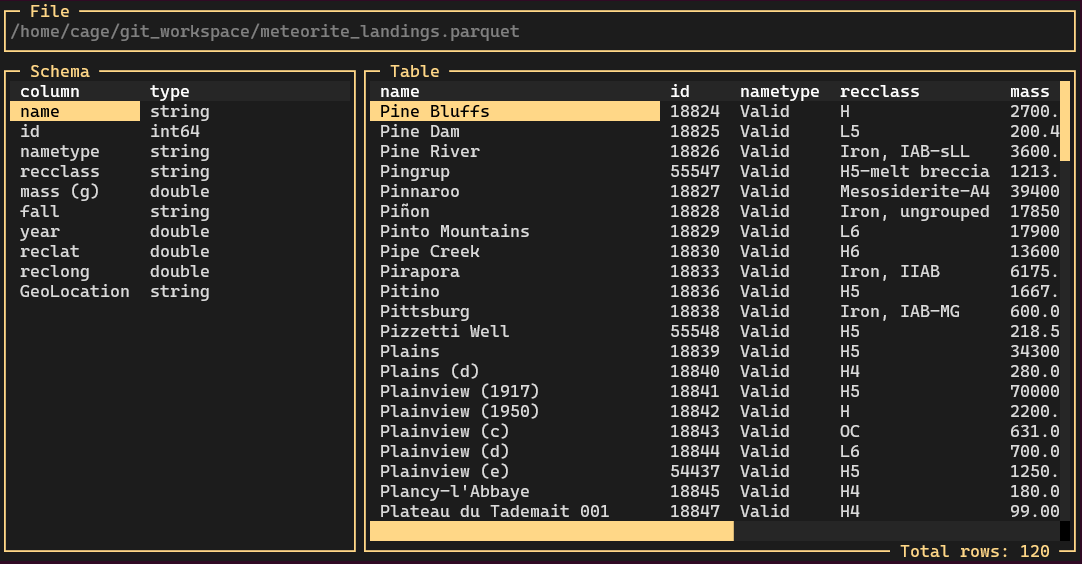
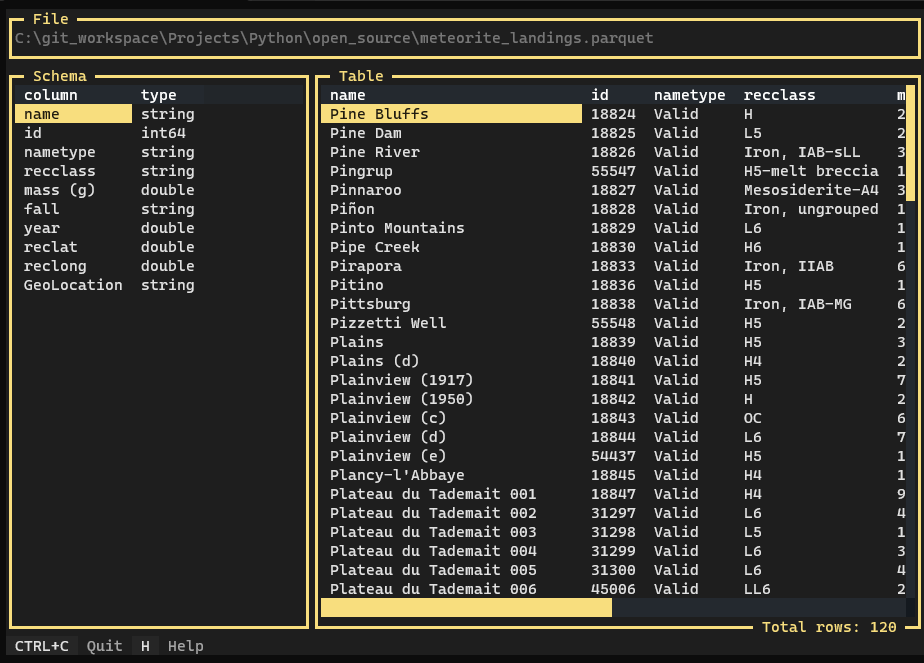
Add Footer and Help screen

Changed region(s): [[0.0, 0.0, 1.0, 1.0]]

diff --git a/pqviewer/app.py b/pqviewer/app.py
@@ -1,16 +1,20 @@
 from textual.app import App, ComposeResult
 from textual.containers import Horizontal
+from textual.binding import Binding
 
 from pqviewer.table_header import TableHeader
 from pqviewer.table_schema import TableSchema
 from pqviewer.table_content import TableContent
+from pqviewer.table_footer import TableFooter
+from pqviewer.help_screen import HelpScreen
 
 
 class PQViewer(App):
 
     CSS_PATH = "global.tcss"
+    BINDINGS = [Binding("ctrl+c", "quit", "Quit"), Binding("h", "help_screen", "Help")]
 
-    def __init__(self, parsed_file):
+    def __init__(self, parsed_file) -> None:
         self.parsed_file = parsed_file
         super().__init__()
 
@@ -19,3 +23,8 @@ class PQViewer(App):
         with Horizontal():
             yield TableSchema(self.parsed_file)
             yield TableContent(self.parsed_file)
+        yield TableFooter()
+
+    def action_help_screen(self) -> None:
+        """Action to display the quit dialog."""
+        self.push_screen(HelpScreen())

diff --git a/pqviewer/help_screen.py b/pqviewer/help_screen.py
@@ -1,0 +1,30 @@
+from textual.app import ComposeResult
+from textual.containers import Vertical
+from textual.screen import ModalScreen
+from textual.widgets import Static
+
+
+class HelpScreen(ModalScreen):
+    """Screen with a dialog to quit."""
+
+    keybinds = """
+        Arrows: Move around the table\n
+        PgUp: Scroll up\n
+        PgDn: Scroll down\n
+        Tab: Switch focus
+    """
+
+    def compose(self) -> ComposeResult:
+        with Vertical(id="help_panel"):
+            yield Static(self.keybinds, id="help_content")
+            yield Static("Press any key to return to table.", id="help_footer")
+
+    def on_mount(self) -> None:
+        help_panel = self.query_one("#help_panel")
+        help_panel.border_title = "PQViewer key binds"
+        help_panel.styles.border = ("heavy", "#F8DE7E")
+        help_content = self.query_one("#help_content")
+        help_content.styles.border = ("heavy", "#777")
+
+    def on_key(self) -> None:
+        self.app.pop_screen()

diff --git a/pqviewer/table_content.py b/pqviewer/table_content.py
@@ -6,7 +6,7 @@ from pqviewer.file_parser import FileParser
 
 class TableContent(Widget):
 
-    def __init__(self, parsed_file: FileParser):
+    def __init__(self, parsed_file: FileParser) -> None:
         self.parsed_file = parsed_file
         super().__init__()
 
@@ -15,11 +15,12 @@ class TableContent(Widget):
 
     def on_mount(self) -> None:
         table = self.query_one(DataTable)
-
-        table.styles.border = ("solid", "#F8DE7E")
+        table.styles.border = ("heavy", "#F8DE7E")
         table.border_title = "Table"
         table.border_subtitle = f"Total rows: {len(self.parsed_file)}"
-
+        table.styles.scrollbar_color = "#F8DE7E"
+        table.styles.scrollbar_color_active = "#F8DE7E"
+        table.styles.scrollbar_color_hover = "#F8DE7E"
         table_content = self.parsed_file.to_table()
         table.add_columns(*table_content[0])
         table.add_rows(table_content[1:])

diff --git a/pqviewer/cli.py b/pqviewer/cli.py
@@ -6,7 +6,7 @@ from pqviewer.app import PQViewer
 from pqviewer.exceptions import pretty_print_error
 
 
-def pqviewer():
+def pqviewer() -> None:
     """Main entry point"""
 
     file_path = sys.argv[1]
@@ -15,9 +15,9 @@ def pqviewer():
             parsed_file = FileParser(file_path)
         except Exception as e:
             sys.exit(pretty_print_error(e))
-
         app = PQViewer(parsed_file)
         app.run()
     else:
-        sys.exit(pretty_print_error(f"The specified path does not exist.\n'{file_path}'"))
-
+        sys.exit(
+            pretty_print_error(f"The specified path does not exist.\n'{file_path}'")
+        )

diff --git a/pqviewer/table_header.py b/pqviewer/table_header.py
@@ -6,7 +6,7 @@ from pqviewer.file_parser import FileParser
 
 class TableHeader(Widget):
 
-    def __init__(self, parsed_file: FileParser):
+    def __init__(self, parsed_file: FileParser) -> None:
         self.file_name = parsed_file.file_name
         super().__init__()
 
@@ -14,7 +14,7 @@ class TableHeader(Widget):
         yield Label(self.file_name)
 
     def on_mount(self) -> None:
-        self.styles.border = ("solid", "#F8DE7E")
+        self.styles.border = ("heavy", "#F8DE7E")
         self.styles.height = "auto"
         self.border_title = "File"
-        self.styles.color = "#808080"
+        self.styles.color = "#777"

diff --git a/pqviewer/table_schema.py b/pqviewer/table_schema.py
@@ -6,7 +6,7 @@ from pqviewer.file_parser import FileParser
 
 class TableSchema(Widget):
 
-    def __init__(self, parsed_file: FileParser):
+    def __init__(self, parsed_file: FileParser) -> None:
         self.parsed_file = parsed_file
         super().__init__()
 
@@ -15,9 +15,7 @@ class TableSchema(Widget):
 
     def on_mount(self) -> None:
         table = self.query_one(DataTable)
-
-        table.styles.border = ("solid", "#F8DE7E")
+        table.styles.border = ("heavy", "#F8DE7E")
         table.border_title = "Schema"
-
         table.add_columns(*[("column", "type")][0])
         table.add_rows(self.parsed_file.schema())

diff --git a/pqviewer/table_footer.py b/pqviewer/table_footer.py
@@ -1,0 +1,11 @@
+from textual.app import Widget, ComposeResult
+from textual.widgets import Footer
+
+
+class TableFooter(Widget):
+
+    def compose(self) -> ComposeResult:
+        yield Footer()
+
+    def on_mount(self) -> None:
+        self.styles.height = "1"

diff --git a/pqviewer/file_parser.py b/pqviewer/file_parser.py
@@ -4,7 +4,7 @@ import pyarrow.parquet as pq
 
 
 class FileParser:
-    def __init__(self, file_name: str):
+    def __init__(self, file_name: str) -> None:
         self.file_name = file_name
         self.table = pq.read_table(self.file_name)
 
